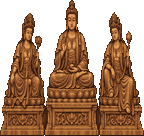
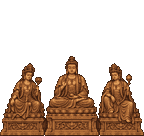
Tile refinements from the other session: the governor's chair, the uprooted willow, bed and incense altar art, wooden statues, and their tile and field code

diff --git a/tools/tile-refinements.html b/tools/tile-refinements.html
@@ -1,9 +1,12 @@
 <!doctype html><html lang="en"><meta charset="utf-8"><meta name="viewport" content="width=device-width,initial-scale=1"><title>Tile refinements</title><style>body{background:#19231e;color:#eee4cf;font:16px/1.5 system-ui;margin:0}main{max-width:1150px;padding:24px;margin:auto}.grid{display:grid;grid-template-columns:repeat(auto-fit,minmax(300px,1fr));gap:20px}figure{padding:12px;background:#2b382f;margin:0}canvas{width:100%;image-rendering:pixelated}a{color:#d0dfa7}</style><main><h1>Tile refinements</h1><p>Long counters, distinct temple statues, complete silhouettes and ground finishes.</p><p><a href="../assets/tiles/32/part2-index.json">Numbered tile index</a> · <a href="building-tiles.html?theme=snow">Building fixes</a> · <a href="../index.html?debug">Play game</a></p><div class="grid" id="grid"></div></main><script src="../js/core/base.js"></script><script src="../js/core/sprites.js"></script><script src="../js/core/tiles.js"></script><script src="../assets/tiles.js"></script><script>
-Object.keys(WM.TILE_ART.sheets).forEach(k=>WM.TILE_ART.sheets[k]='../'+WM.TILE_ART.sheets[k]);WM.state={flags:{}};WM.data=WM.data||{};const actor=WM.sprites.build('scale',{body:'#8b3328'});
+Object.keys(WM.TILE_ART.sheets).forEach(k=>WM.TILE_ART.sheets[k]='../'+WM.TILE_ART.sheets[k]);WM.state={flags:{'felled:willow-fallen-preview':true}};WM.data=WM.data||{};const actor=WM.sprites.build('scale',{body:'#8b3328'});
 const samples=[
+ {id:'willow-fallen-preview',name:'Uprooted willow with crow and nest',rows:['................','................','................','................','.......l........','................','................','................','................','................']},
+ {name:'Standing willow with crow nest',rows:['................','................','................','................','................','.......l........','................','................','................','................']},
+ {name:'Top-aligned bed and table contact shadows',interior:true,rows:['XXXXXXXXXXXXXXXX','XXXXXXXXXXXXXXXX','nnnnnnnnnnnnnnnn','nnnnnnnnnnnnnnnn','nnnknnnnnntnnnnn','nnnnnnnnnnnnnnnn','nnnnnnnnnnnnnnnn','nnnnnnnnnnnnnnnn','nnnnnnnnnnnnnnnn','nnnnnnnnnnnnnnnn']},
  {name:'Shi Jin: transparent 2×2 weapon and staff rack',rows:['................','................','...=========....','...=========....','...===⚔=====....','...=========....','.......:::......','.......:::......','................','................']},
  {name:'Complete rowboat and empty covered sampan',theme:'marsh',rows:['~~~~~~~~~~~~~~~~','~~~~~~~~~~~~~~~~','~~~~~~~~~~~~~~~~','~~~~~~~~~~~~~~~~','~~~oo~~~~[~~~~~~','~~~~~~~~~~~~~~~~','~~~~~~~~~~~~~~~~','~~~~~~~~~~~~~~~~','~~~~~~~~~~~~~~~~','~~~~~~~~~~~~~~~~']},
- {name:'Clean jar and table silhouettes; one official seat',interior:true,actor:[104,96],rows:['XXXXXXXXXXXXXXXX','XXXXXXXXXXXXXXXX','nnnnnnnnnnnnnnnn','nnnnnnnnnnnnnnnn','nnnnnEEEEnnnnnnn','nnnnnq00qnnnnnnn','nnnnnaaaannnnnnn','nnjnnnnnnntnnnnn','nnnnnnnnnnnnnnnn','nnnnnnnnnnnnnnnn']},
+ {name:'Clean jar and table silhouettes; one two-tile governor seat',interior:true,actor:[112,96],rows:['XXXXXXXXXXXXXXXX','XXXXXXXXXXXXXXXX','nnnnnnnnnnnnnnnn','nnnnnnnnnnnnnnnn','nnnnnEEEEnnnnnnn','nnnnnq00qnnnnnnn','nnnnnaaaannnnnnn','nnjnnnnnnntnnnnn','nnnnnnnnnnnnnnnn','nnnnnnnnnnnnnnnn']},
  {id:'demonhall',name:'Sealed tablet: two tiles wide, three tall',interior:true,rows:['XXXXXXXXXXXXXXXX','XXXXXXXXXXXXXXXX','NNNNNNNNNNNNNNNN','NNNNNNNQQNNNNNNN','NNNNNNNNNNNNNNNN','NNNNNNNNNNNNNNNN','NNNNNNNNNNNNNNNN','NNNNNNNNNNNNNNNN','NNNNNNNNNNNNNNNN','NNNNNNNNNNNNNNNN']},
  {name:'Inn: long counter and original small tables',interior:true,rows:['XXXXXXXXXXXXXXXX','XXXXXXXXXXXXXXXX','nnnnnnnnnnnnnnnn','nnnnnnnnnnnnnnnn','nnnccccccnnnnnnn','nnnnnnnnnnnnnnnn','nntnnnntnnnccnnn','nnnnnnnnnnnnnnnn','nnnnnnnnnnnnnnnn','nnnnnnnnnnnnnnnn']},
  {name:'Buddhist hall: carved wood, one tile taller',interior:true,rows:['XXXXXXXXXXXXXXXX','XXXXXXXXXXXXXXXX','NNNNNNNNNNNNNNNN','NNNNNNNNNNNNNNNN','NNNNNN111NNNNNNN','NNNNNN222NNNNNNN','NNNN4NN3NN4NNNNN','NNNNNNNNNNNNNNNN','NNNNNNNNNNNNNNNN','NNNNNNNNNNNNNNNN']},

diff --git a/tools/test-furniture-cleanup.js b/tools/test-furniture-cleanup.js
@@ -2,11 +2,11 @@
 const assert=require('assert/strict'),sharp=require('sharp'),{load}=require('./headless');
 (async()=>{
  // Exported furniture must contain one connected silhouette, not pieces of adjacent source rows.
- for(const n of ['table','tea-table','counter','storage-jar']){const{data,info}=await sharp('assets/tiles/32/objects/'+n+'.png').ensureAlpha().raw().toBuffer({resolveWithObject:true});const seen=new Set(),parts=[];for(let i=0;i<info.width*info.height;i++){if(!data[i*4+3]||seen.has(i))continue;const q=[i];seen.add(i);for(let j=0;j<q.length;j++){const x=q[j]%info.width,y=q[j]/info.width|0;for(let dy=-1;dy<=1;dy++)for(let dx=-1;dx<=1;dx++){const xx=x+dx,yy=y+dy,k=yy*info.width+xx;if(xx<0||yy<0||xx>=info.width||yy>=info.height||seen.has(k)||!data[k*4+3])continue;seen.add(k);q.push(k);}}parts.push(q.length);}assert.equal(parts.length,1,n+' no detached stains');}
+ for(const n of ['table','tea-table','counter','storage-jar','incense-altar']){const{data,info}=await sharp('assets/tiles/32/objects/'+n+'.png').ensureAlpha().raw().toBuffer({resolveWithObject:true});const seen=new Set(),parts=[];for(let i=0;i<info.width*info.height;i++){if(!data[i*4+3]||seen.has(i))continue;const q=[i];seen.add(i);for(let j=0;j<q.length;j++){const x=q[j]%info.width,y=q[j]/info.width|0;for(let dy=-1;dy<=1;dy++)for(let dx=-1;dx<=1;dx++){const xx=x+dx,yy=y+dy,k=yy*info.width+xx;if(xx<0||yy<0||xx>=info.width||yy>=info.height||seen.has(k)||!data[k*4+3])continue;seen.add(k);q.push(k);}}parts.push(q.length);}assert.equal(parts.length,1,n+' no detached stains');}
  const sb=load(),W=sb.WM,imgs=[],draws=[];W.S.newGame();sb.Image=function(){Object.defineProperty(this,'src',{set:s=>{this.path=s;imgs.push(this);}});};W.tiles.reloadArt();imgs.forEach(i=>i.onload());
  const ctx=new Proxy({drawImage:(...a)=>draws.push(a)},{get:(o,k)=>k in o?o[k]:()=>{},set:(o,k,v)=>(o[k]=v,true)});
  const m={id:'test',theme:'summer',interior:true,def:{},w:4,h:1,get(x,y){return y===0?'q00q'[x]||null:null;}};
- for(let x=1;x<=2;x++)W.tiles.drawTall(ctx,x*16,0,x,0,W.tiles.THEMES.summer,m,'0');assert.equal(draws.length,1,'one seat per paired throne');assert.equal(draws[0][5],16,'seat stays at official position');
+ for(let x=1;x<=2;x++)W.tiles.drawTall(ctx,x*16,0,x,0,W.tiles.THEMES.summer,m,'0');assert.equal(draws.length,1,'one seat per paired throne');assert.equal(draws[0][5],16,'seat stays at official position');assert.equal(draws[0][7],32,'seat spans two tiles');assert(draws[0][0].path.endsWith('governor-chair-refined.png'));
  const d=W.data.maps.demonhall,rows=d.rows,dm={...m,id:'demonhall',def:d,w:15,h:rows.length,get(x,y){return rows[y]?.[x]??null;}};draws.length=0;for(let x=7;x<=8;x++)W.tiles.drawTall(ctx,x*16,48,x,3,W.tiles.THEMES.summer,dm,'Q');assert.equal(draws.length,1);assert.equal(draws[0][7],32);assert.equal(draws[0][8],48);assert(W.tiles.solidAt(dm,7,3)&&W.tiles.solidAt(dm,8,3));assert(!W.tiles.solidAt(dm,7,4));const events=W.data.events.demonhall;assert.equal(events.find(e=>e.id==='tablet').w,2);
  console.log('PASS: clean connected furniture silhouettes, one official seat, 2x3 tablet with two-wide collision and interaction.');
 })().catch(e=>{console.error(e);process.exitCode=1;});

diff --git a/docs/js/engine/field.js b/docs/js/engine/field.js
@@ -100,6 +100,14 @@
     return true;
   };
 
+  // A governor's chair spans two tiles; its occupant sits between their centres.
+  F.seatCenterX = function (map, ev) {
+    if (map.get(ev.x, ev.y) !== '0') return ev.x * TS + TS / 2;
+    var left = ev.x;
+    while (left > 0 && map.get(left - 1, ev.y) === '0') left--;
+    return left * TS + TS;
+  };
+
   F.spawnActors = function () {
     F.actors = [];
     var evs = WM.data.events[F.map.id] || [];
@@ -107,7 +115,7 @@
       if (!F.evActive(ev)) return;
       var lk = lookFor(ev);
       if (!lk) return;
-      var a = new Actor({ x: ev.x * TS + 8, y: ev.y * TS + 15, dir: ev.dir || 'down', sheetId: lk.id, look: lk.look, ev: ev, wander: ev.wander, name: lk.name, speed: ev.speed });
+      var a = new Actor({ x: F.seatCenterX(F.map, ev), y: ev.y * TS + 15, dir: ev.dir || 'down', sheetId: lk.id, look: lk.look, ev: ev, wander: ev.wander, name: lk.name, speed: ev.speed });
       if (ev.hidden) a.visible = false;
       F.actors.push(a);
     });
@@ -548,7 +556,7 @@
       if (!F.evActive(ev)) return;
       if (keep.some(function (a) { return a.ev === ev; })) return;
       var lk = lookFor(ev); if (!lk) return;
-      var a = new Actor({ x: ev.x * TS + 8, y: ev.y * TS + 15, dir: ev.dir || 'down', sheetId: lk.id, look: lk.look, ev: ev, wander: ev.wander, name: lk.name });
+      var a = new Actor({ x: F.seatCenterX(F.map, ev), y: ev.y * TS + 15, dir: ev.dir || 'down', sheetId: lk.id, look: lk.look, ev: ev, wander: ev.wander, name: lk.name });
       if (ev.hidden) a.visible = false;
       keep.push(a);
     });
@@ -629,6 +637,10 @@
     }
     // emotes on top
     for (i = 0; i < all.length; i++) if (all[i].emote && all[i].visible) drawEmote(c, all[i], cx, cy);
+    // a place that calls for a visit (crows singing in a tree): an event's markEmote, drawn over its markAt tile while the event waits
+    if (!WM.script.running && (WM.time % 3.5) < 2.2) (WM.data.events[F.map.id] || []).forEach(function (ev) {
+      if (ev.markEmote && ev.markAt && F.evActive(ev)) drawEmote(c, { x: ev.markAt[0] * TS + 8, y: ev.markAt[1] * TS + 15, offY: 0, emote: ev.markEmote }, cx, cy);
+    });
     drawMarks(c, cx, cy);
     drawSplashes(c, cx, cy);
     if (room >= 0) {
@@ -637,10 +649,6 @@
       for (var ty = y0; ty <= y0 + Math.ceil(WM.LOW_H / TS) && ty < F.map.h; ty++)
         for (var tx = x0; tx <= x0 + Math.ceil(WM.LOW_W / TS) && tx < F.map.w; tx++)
           if (elsewhere(tx, ty)) c.fillRect(tx * TS - cx, ty * TS - cy, TS, TS);
-    // a place that calls for a visit (crows singing in a tree): an event's markEmote, drawn over its markAt tile while the event waits
-    if (!WM.script.running && (WM.time % 3.5) < 2.2) (WM.data.events[F.map.id] || []).forEach(function (ev) {
-      if (ev.markEmote && ev.markAt && F.evActive(ev)) drawEmote(c, { x: ev.markAt[0] * TS + 8, y: ev.markAt[1] * TS + 15, offY: 0, emote: ev.markEmote }, cx, cy);
-    });
     }
 
     // weather & lighting

diff --git a/js/engine/field.js b/js/engine/field.js
@@ -100,6 +100,14 @@
     return true;
   };
 
+  // A governor's chair spans two tiles; its occupant sits between their centres.
+  F.seatCenterX = function (map, ev) {
+    if (map.get(ev.x, ev.y) !== '0') return ev.x * TS + TS / 2;
+    var left = ev.x;
+    while (left > 0 && map.get(left - 1, ev.y) === '0') left--;
+    return left * TS + TS;
+  };
+
   F.spawnActors = function () {
     F.actors = [];
     var evs = WM.data.events[F.map.id] || [];
@@ -107,7 +115,7 @@
       if (!F.evActive(ev)) return;
       var lk = lookFor(ev);
       if (!lk) return;
-      var a = new Actor({ x: ev.x * TS + 8, y: ev.y * TS + 15, dir: ev.dir || 'down', sheetId: lk.id, look: lk.look, ev: ev, wander: ev.wander, name: lk.name, speed: ev.speed });
+      var a = new Actor({ x: F.seatCenterX(F.map, ev), y: ev.y * TS + 15, dir: ev.dir || 'down', sheetId: lk.id, look: lk.look, ev: ev, wander: ev.wander, name: lk.name, speed: ev.speed });
       if (ev.hidden) a.visible = false;
       F.actors.push(a);
     });
@@ -548,7 +556,7 @@
       if (!F.evActive(ev)) return;
       if (keep.some(function (a) { return a.ev === ev; })) return;
       var lk = lookFor(ev); if (!lk) return;
-      var a = new Actor({ x: ev.x * TS + 8, y: ev.y * TS + 15, dir: ev.dir || 'down', sheetId: lk.id, look: lk.look, ev: ev, wander: ev.wander, name: lk.name });
+      var a = new Actor({ x: F.seatCenterX(F.map, ev), y: ev.y * TS + 15, dir: ev.dir || 'down', sheetId: lk.id, look: lk.look, ev: ev, wander: ev.wander, name: lk.name });
       if (ev.hidden) a.visible = false;
       keep.push(a);
     });
@@ -629,6 +637,10 @@
     }
     // emotes on top
     for (i = 0; i < all.length; i++) if (all[i].emote && all[i].visible) drawEmote(c, all[i], cx, cy);
+    // a place that calls for a visit (crows singing in a tree): an event's markEmote, drawn over its markAt tile while the event waits
+    if (!WM.script.running && (WM.time % 3.5) < 2.2) (WM.data.events[F.map.id] || []).forEach(function (ev) {
+      if (ev.markEmote && ev.markAt && F.evActive(ev)) drawEmote(c, { x: ev.markAt[0] * TS + 8, y: ev.markAt[1] * TS + 15, offY: 0, emote: ev.markEmote }, cx, cy);
+    });
     drawMarks(c, cx, cy);
     drawSplashes(c, cx, cy);
     if (room >= 0) {
@@ -637,10 +649,6 @@
       for (var ty = y0; ty <= y0 + Math.ceil(WM.LOW_H / TS) && ty < F.map.h; ty++)
         for (var tx = x0; tx <= x0 + Math.ceil(WM.LOW_W / TS) && tx < F.map.w; tx++)
           if (elsewhere(tx, ty)) c.fillRect(tx * TS - cx, ty * TS - cy, TS, TS);
-    // a place that calls for a visit (crows singing in a tree): an event's markEmote, drawn over its markAt tile while the event waits
-    if (!WM.script.running && (WM.time % 3.5) < 2.2) (WM.data.events[F.map.id] || []).forEach(function (ev) {
-      if (ev.markEmote && ev.markAt && F.evActive(ev)) drawEmote(c, { x: ev.markAt[0] * TS + 8, y: ev.markAt[1] * TS + 15, offY: 0, emote: ev.markEmote }, cx, cy);
-    });
     }
 
     // weather & lighting

diff --git a/tools/test-refinement-browser.js b/tools/test-refinement-browser.js
@@ -1,6 +1,6 @@
 'use strict';
 const assert=require('assert/strict'),fs=require('fs'),sharp=require('sharp'),{chromium}=require('playwright');
 (async()=>{
- for(const[name,w,h]of[['sealed-tablet',64,96],['counter',128,56],['statues-wood',144,136],['taoist-wood',144,136],['rowboat-complete',64,40],['sampan-empty',128,56],['censer',64,64],['paving',64,64]]){const{data,info}=await sharp('assets/tiles/32/'+name+'-refined.png').ensureAlpha().raw().toBuffer({resolveWithObject:true});assert.equal(info.width,w);assert.equal(info.height,h);for(let i=3;i<data.length;i+=4)assert(data[i]===0||data[i]===255);}
- const b=await chromium.launch({executablePath:process.env.PLAYWRIGHT_CHROMIUM_EXECUTABLE});try{const p=await b.newPage({viewport:{width:1200,height:1000}}),errors=[];p.on('pageerror',e=>errors.push(e.message));p.on('response',r=>{if(r.status()>=400)errors.push(r.url());});await p.goto('http://localhost:8765/tools/tile-refinements.html');await p.waitForFunction(()=>WM.tiles.artStatus().waiting===0&&document.querySelectorAll('canvas').length===10);fs.mkdirSync('output/refinements',{recursive:true});await p.screenshot({path:'output/refinements/preview.png',fullPage:true});await p.setViewportSize({width:390,height:844});assert(await p.evaluate(()=>document.documentElement.scrollWidth<=innerWidth));assert.deepEqual(errors,[]);console.log('PASS: refined sprite dimensions and binary alpha, ten browser scenes, mobile layout, no missing assets.');}finally{await b.close();}
+ for(const[name,w,h]of[['willow-uprooted',128,64],['governor-chair',64,64],['sealed-tablet',64,96],['counter',128,56],['statues-wood',144,136],['taoist-wood',144,136],['rowboat-complete',64,40],['sampan-empty',128,56],['censer',64,64],['paving',64,64]]){const{data,info}=await sharp('assets/tiles/32/'+name+'-refined.png').ensureAlpha().raw().toBuffer({resolveWithObject:true});assert.equal(info.width,w);assert.equal(info.height,h);for(let i=3;i<data.length;i+=4)assert(data[i]===0||data[i]===255);}
+ const b=await chromium.launch({executablePath:process.env.PLAYWRIGHT_CHROMIUM_EXECUTABLE});try{const p=await b.newPage({viewport:{width:1200,height:1000}}),errors=[];p.on('pageerror',e=>errors.push(e.message));p.on('response',r=>{if(r.status()>=400)errors.push(r.url());});await p.goto('http://localhost:8765/tools/tile-refinements.html');await p.waitForFunction(()=>WM.tiles.artStatus().waiting===0&&document.querySelectorAll('canvas').length===13);fs.mkdirSync('output/refinements',{recursive:true});await p.screenshot({path:'output/refinements/preview.png',fullPage:true});await p.setViewportSize({width:390,height:844});assert(await p.evaluate(()=>document.documentElement.scrollWidth<=innerWidth));assert.deepEqual(errors,[]);console.log('PASS: refined sprite dimensions and binary alpha, thirteen browser scenes, mobile layout, no missing assets.');}finally{await b.close();}
 })().catch(e=>{console.error(e);process.exitCode=1;});

diff --git a/docs/js/core/tiles.js b/docs/js/core/tiles.js
@@ -1311,6 +1311,11 @@
       map.get(tx, ty + 1) === ch && map.get(tx, ty + 2) === ch);
   };
   T.solidAt = function (map, tx, ty) {
+    if (WM.state && WM.state.flags && WM.state.flags['felled:' + map.id]) {
+      // Fallen willow spans four ground cells, with foliage overhanging above.
+      for (var wx = tx - 2; wx <= tx + 1; wx++) if (map.get(wx, ty) === 'l') return true;
+    }
+
     if(T.worldTerrainLayout(map).occupied[tx+','+ty])return true;
     var layout = T.propLayout(map);
     return !!layout.occupied[tx + ',' + ty] || (!T.isRemovedRoof(map, tx, ty) && T.solid(map.get(tx, ty)));
@@ -1476,15 +1481,27 @@
     }
     propLayouts.set(map,out);return out;
   };
+  function propContactShadow(c, cx, base, width, depth) {
+    c.save();
+    c.fillStyle = 'rgba(30,20,12,0.20)';
+    c.beginPath(); c.ellipse(cx, base, width * 0.46, depth, 0, 0, Math.PI * 2); c.fill();
+    c.fillStyle = 'rgba(30,20,12,0.12)';
+    c.beginPath(); c.ellipse(cx, base, width * 0.36, depth * 0.58, 0, 0, Math.PI * 2); c.fill();
+    c.restore();
+  }
   function objectTall(c, x, y, tx, ty, map, ch, e) {
     if (ch === 'l' && WM.state && WM.state.flags && WM.state.flags['felled:' + map.id]) {
-      willowTall(c, x, y, tx, ty, THEMES[map.theme] || THEMES.spring, map); return;
+      if (SHEETS.uprootedWillow) propContactShadow(c,x+16,y+14,58,3);
+      if (SHEETS.uprootedWillow) U.drawArt(c,SHEETS.uprootedWillow,0,0,64,32,x-16,y-16,64,32);
+      else willowTall(c, x, y, tx, ty, THEMES[map.theme] || THEMES.spring, map);
+      return;
     }
     if(ch==='c'&&SHEETS.longCounter){
       var counter=runOf(map,tx,ty,ch);
       if(counter.n>=3){
         if(tx!==counter.x0)return;
         var cw=counter.n*S;
+        propContactShadow(c,x+cw/2,y+15,cw,2.4);
         U.drawArt(c,SHEETS.longCounter,0,0,16,28,x,y-12,16,28);
         for(var cx=16;cx<cw-16;cx+=16)U.drawArt(c,SHEETS.longCounter,16+(cx/16%2)*16,0,16,28,x+cx,y-12,16,28);
         U.drawArt(c,SHEETS.longCounter,48,0,16,28,x+cw-16,y-12,16,28);return;
@@ -1515,6 +1532,12 @@
     }
     // Never stretch an object's width independently of its height to fill a map run.
     var sourceW = o.w || S, fit = ch === 'b' ? 1 : Math.min(1, w / sourceW), drawW = sourceW * fit, drawH = h * fit;
+    // Freestanding props only: structural pieces and water props have no floor shadow.
+    if (e.base !== 'water' && 'utckhjAIQVU1235678E0a⚔LYJg'.indexOf(ch) >= 0 && o.shadow !== false) {
+      var shadowWidth = 'LYJ'.indexOf(ch) >= 0 ? Math.min(drawW, 10) : drawW;
+      propContactShadow(c, dx + w / 2, baseY - (ch === 'k' ? 3 * fit : fit),
+        shadowWidth, Math.max(0.8, Math.min(3, shadowWidth * 0.075)));
+    }
     if(o.pedestal&&SHEETS.refinedPaving){
       var pedestalX=dx+(w-drawW)/2;
       U.drawArt(c,SHEETS.refinedPaving,0,0,32,12,pedestalX,baseY-8,drawW,8);

diff --git a/js/core/tiles.js b/js/core/tiles.js
@@ -1311,6 +1311,11 @@
       map.get(tx, ty + 1) === ch && map.get(tx, ty + 2) === ch);
   };
   T.solidAt = function (map, tx, ty) {
+    if (WM.state && WM.state.flags && WM.state.flags['felled:' + map.id]) {
+      // Fallen willow spans four ground cells, with foliage overhanging above.
+      for (var wx = tx - 2; wx <= tx + 1; wx++) if (map.get(wx, ty) === 'l') return true;
+    }
+
     if(T.worldTerrainLayout(map).occupied[tx+','+ty])return true;
     var layout = T.propLayout(map);
     return !!layout.occupied[tx + ',' + ty] || (!T.isRemovedRoof(map, tx, ty) && T.solid(map.get(tx, ty)));
@@ -1476,15 +1481,27 @@
     }
     propLayouts.set(map,out);return out;
   };
+  function propContactShadow(c, cx, base, width, depth) {
+    c.save();
+    c.fillStyle = 'rgba(30,20,12,0.20)';
+    c.beginPath(); c.ellipse(cx, base, width * 0.46, depth, 0, 0, Math.PI * 2); c.fill();
+    c.fillStyle = 'rgba(30,20,12,0.12)';
+    c.beginPath(); c.ellipse(cx, base, width * 0.36, depth * 0.58, 0, 0, Math.PI * 2); c.fill();
+    c.restore();
+  }
   function objectTall(c, x, y, tx, ty, map, ch, e) {
     if (ch === 'l' && WM.state && WM.state.flags && WM.state.flags['felled:' + map.id]) {
-      willowTall(c, x, y, tx, ty, THEMES[map.theme] || THEMES.spring, map); return;
+      if (SHEETS.uprootedWillow) propContactShadow(c,x+16,y+14,58,3);
+      if (SHEETS.uprootedWillow) U.drawArt(c,SHEETS.uprootedWillow,0,0,64,32,x-16,y-16,64,32);
+      else willowTall(c, x, y, tx, ty, THEMES[map.theme] || THEMES.spring, map);
+      return;
     }
     if(ch==='c'&&SHEETS.longCounter){
       var counter=runOf(map,tx,ty,ch);
       if(counter.n>=3){
         if(tx!==counter.x0)return;
         var cw=counter.n*S;
+        propContactShadow(c,x+cw/2,y+15,cw,2.4);
         U.drawArt(c,SHEETS.longCounter,0,0,16,28,x,y-12,16,28);
         for(var cx=16;cx<cw-16;cx+=16)U.drawArt(c,SHEETS.longCounter,16+(cx/16%2)*16,0,16,28,x+cx,y-12,16,28);
         U.drawArt(c,SHEETS.longCounter,48,0,16,28,x+cw-16,y-12,16,28);return;
@@ -1515,6 +1532,12 @@
     }
     // Never stretch an object's width independently of its height to fill a map run.
     var sourceW = o.w || S, fit = ch === 'b' ? 1 : Math.min(1, w / sourceW), drawW = sourceW * fit, drawH = h * fit;
+    // Freestanding props only: structural pieces and water props have no floor shadow.
+    if (e.base !== 'water' && 'utckhjAIQVU1235678E0a⚔LYJg'.indexOf(ch) >= 0 && o.shadow !== false) {
+      var shadowWidth = 'LYJ'.indexOf(ch) >= 0 ? Math.min(drawW, 10) : drawW;
+      propContactShadow(c, dx + w / 2, baseY - (ch === 'k' ? 3 * fit : fit),
+        shadowWidth, Math.max(0.8, Math.min(3, shadowWidth * 0.075)));
+    }
     if(o.pedestal&&SHEETS.refinedPaving){
       var pedestalX=dx+(w-drawW)/2;
       U.drawArt(c,SHEETS.refinedPaving,0,0,32,12,pedestalX,baseY-8,drawW,8);

diff --git a/tools/build-remaining-tiles.js b/tools/build-remaining-tiles.js
@@ -28,7 +28,7 @@ const yranges=[[0,207],[207,382],[365,533],[533,693],[690,867],[865,1024]];
   if(i===32)yt=686;if(i===33)yt=719;if(i===34)yt=716;
   // Discard detached pixels from neighbouring source sprites before fitting furniture.
   let source=data;
-  if([22,23,24,28].includes(i)){
+  if([22,23,24,28,29].includes(i)){
     source=Buffer.from(data);const width=xr-xl,height=yb-yt,seen=new Uint8Array(width*height);let largest=[];
     for(let n=0;n<seen.length;n++){
       const alpha=n=>data[(((n/width|0)+yt)*info.width+n%width+xl)*4+3];
@@ -41,12 +41,12 @@ const yranges=[[0,207],[207,382],[365,533],[533,693],[690,867],[865,1024]];
   let l=xr,t=yb,r=xl,b=yt;
   for(let y=yt;y<yb;y++)for(let x=xl;x<xr;x++)if(source[(y*info.width+x)*4+3]>=192){l=Math.min(l,x);r=Math.max(r,x);t=Math.min(t,y);b=Math.max(b,y);}
   const [w,h]=sizes[i].map(n=>n*2);
-  let raw=await sharp(source,{raw:info}).extract({left:l,top:t,width:r-l+1,height:b-t+1}).resize(w,h,{fit:'contain',position:'south',background:{r:0,g:0,b:0,alpha:0},kernel:'lanczos3'}).raw().toBuffer();
+  let raw=await sharp(source,{raw:info}).extract({left:l,top:t,width:r-l+1,height:b-t+1}).resize(w,h,{fit:'contain',position:i===25?'north':'south',background:{r:0,g:0,b:0,alpha:0},kernel:'lanczos3'}).raw().toBuffer();
   for(let p=0;p<raw.length;p+=4){if(raw[p+3]<128){raw.fill(0,p,p+4);}else raw[p+3]=255;}
   // Quantize colours, then restore hard alpha for clean pixel edges.
   const quant=await sharp(raw,{raw:{width:w,height:h,channels:4}}).png({palette:true,colours:16,dither:0}).toBuffer();
   raw=await sharp(quant).ensureAlpha().raw().toBuffer();for(let p=3;p<raw.length;p+=4)raw[p]=raw[p]<128?0:255;
-  if([22,23,24,28].includes(i)){
+  if([22,23,24,28,29].includes(i)){
     const seen=new Set();let best=[];
     for(let n=0;n<w*h;n++){if(seen.has(n)||!raw[n*4+3])continue;const q=[n];seen.add(n);
       for(let j=0;j<q.length;j++){const x=q[j]%w,y=q[j]/w|0;for(let dy=-1;dy<=1;dy++)for(let dx=-1;dx<=1;dx++){const xx=x+dx,yy=y+dy,k=yy*w+xx;if(xx<0||yy<0||xx>=w||yy>=h||seen.has(k)||!raw[k*4+3])continue;seen.add(k);q.push(k);}}

diff --git a/tools/build-refinement-tiles.js b/tools/build-refinement-tiles.js
@@ -1,18 +1,20 @@
 'use strict';
 const sharp=require('sharp'),fs=require('fs');
 const src='art/generated-refinements-v1/',dst='assets/tiles/32/';
-async function sprite(name,w,h){
+async function sprite(name,w,h,preserveAspect=false){
  let {data,info}=await sharp(src+name+'.png').ensureAlpha().raw().toBuffer({resolveWithObject:true});
  for(let i=3;i<data.length;i+=4)data[i]=data[i]<200?0:255;
  const png=await sharp(data,{raw:info}).png().toBuffer();
- let out=await sharp(png).trim({threshold:1}).resize(w,h,{fit:'fill'}).png({palette:true,colours:16,dither:0}).toBuffer();
+ let out=await sharp(png).trim({threshold:1}).resize(w,h,preserveAspect?{fit:'contain',position:'south',background:{r:0,g:0,b:0,alpha:0}}:{fit:'fill'}).png({palette:true,colours:16,dither:0}).toBuffer();
  let r=await sharp(out).ensureAlpha().raw().toBuffer();for(let i=3;i<r.length;i+=4)r[i]=r[i]<128?0:255;
  await sharp(r,{raw:{width:w,height:h,channels:4}}).png().toFile(dst+name+'-refined.png');
 }
 (async()=>{
- await sprite('sealed-tablet',64,96);await sprite('counter',128,56);await sprite('statues-wood',144,136);
+ await sprite('sealed-tablet',64,96);await sprite('counter',128,56);await sprite('statues-wood',144,136,true);
  await sprite('taoist-wood',144,136);
  await sprite('weapon-rack',64,64);
+ await sprite('willow-uprooted',128,64,true);
+ await sprite('governor-chair',64,64);
  await sprite('rowboat-complete',64,40);await sprite('sampan-empty',128,56);
  let p=await sharp(src+'paving.png').resize(64,64).png({palette:true,colours:16,dither:0}).toBuffer();
  let {data,info}=await sharp(p).ensureAlpha().raw().toBuffer({resolveWithObject:true});

diff --git a/docs/assets/tiles.js b/docs/assets/tiles.js
@@ -225,6 +225,12 @@ WM.TILE_ART.tiles['Q@demonhall']={sheet:'sealedTablet',base:'floor',object:{at:[
 // Shi Jin's practice-yard weapons; 64px sprite occupies two logical tiles per side.
 WM.TILE_ART.sheets.weaponRack='assets/tiles/32/weapon-rack-refined.png';
 WM.TILE_ART.tiles['⚔']={sheet:'weaponRack',base:'grass',object:{at:[0,0],w:32,h:32,footprint:[2,2]}};
+
+// One broad provincial official's seat across the authored chair pair.
+WM.TILE_ART.sheets.governorChair='assets/tiles/32/governor-chair-refined.png';
+['spring','summer','autumn','snow','dusk','marsh','south','north'].forEach(function(theme){WM.TILE_ART.tiles['0@'+theme]={sheet:'governorChair',base:'floor',object:{at:[0,0],w:32,h:32,run:true,singleSeat:true}};});
+
+WM.TILE_ART.sheets.uprootedWillow='assets/tiles/32/willow-uprooted-refined.png';
 WM.TILE_ART.sheets.uprootedWillow='assets/tiles/32/willow-uprooted-refined.png';
 // the cesspit of the Xiangguo vegetable garden: the river's banks and ripples, recoloured to sludge (tools/build-cesspit-tiles.js)
 (function () {

diff --git a/assets/tiles.js b/assets/tiles.js
@@ -225,6 +225,11 @@ WM.TILE_ART.tiles['Q@demonhall']={sheet:'sealedTablet',base:'floor',object:{at:[
 // Shi Jin's practice-yard weapons; 64px sprite occupies two logical tiles per side.
 WM.TILE_ART.sheets.weaponRack='assets/tiles/32/weapon-rack-refined.png';
 WM.TILE_ART.tiles['⚔']={sheet:'weaponRack',base:'grass',object:{at:[0,0],w:32,h:32,footprint:[2,2]}};
+
+// One broad provincial official's seat across the authored chair pair.
+WM.TILE_ART.sheets.governorChair='assets/tiles/32/governor-chair-refined.png';
+['spring','summer','autumn','snow','dusk','marsh','south','north'].forEach(function(theme){WM.TILE_ART.tiles['0@'+theme]={sheet:'governorChair',base:'floor',object:{at:[0,0],w:32,h:32,run:true,singleSeat:true}};});
+
 WM.TILE_ART.sheets.uprootedWillow='assets/tiles/32/willow-uprooted-refined.png';
 // the cesspit of the Xiangguo vegetable garden: the river's banks and ripples, recoloured to sludge (tools/build-cesspit-tiles.js)
 (function () {
